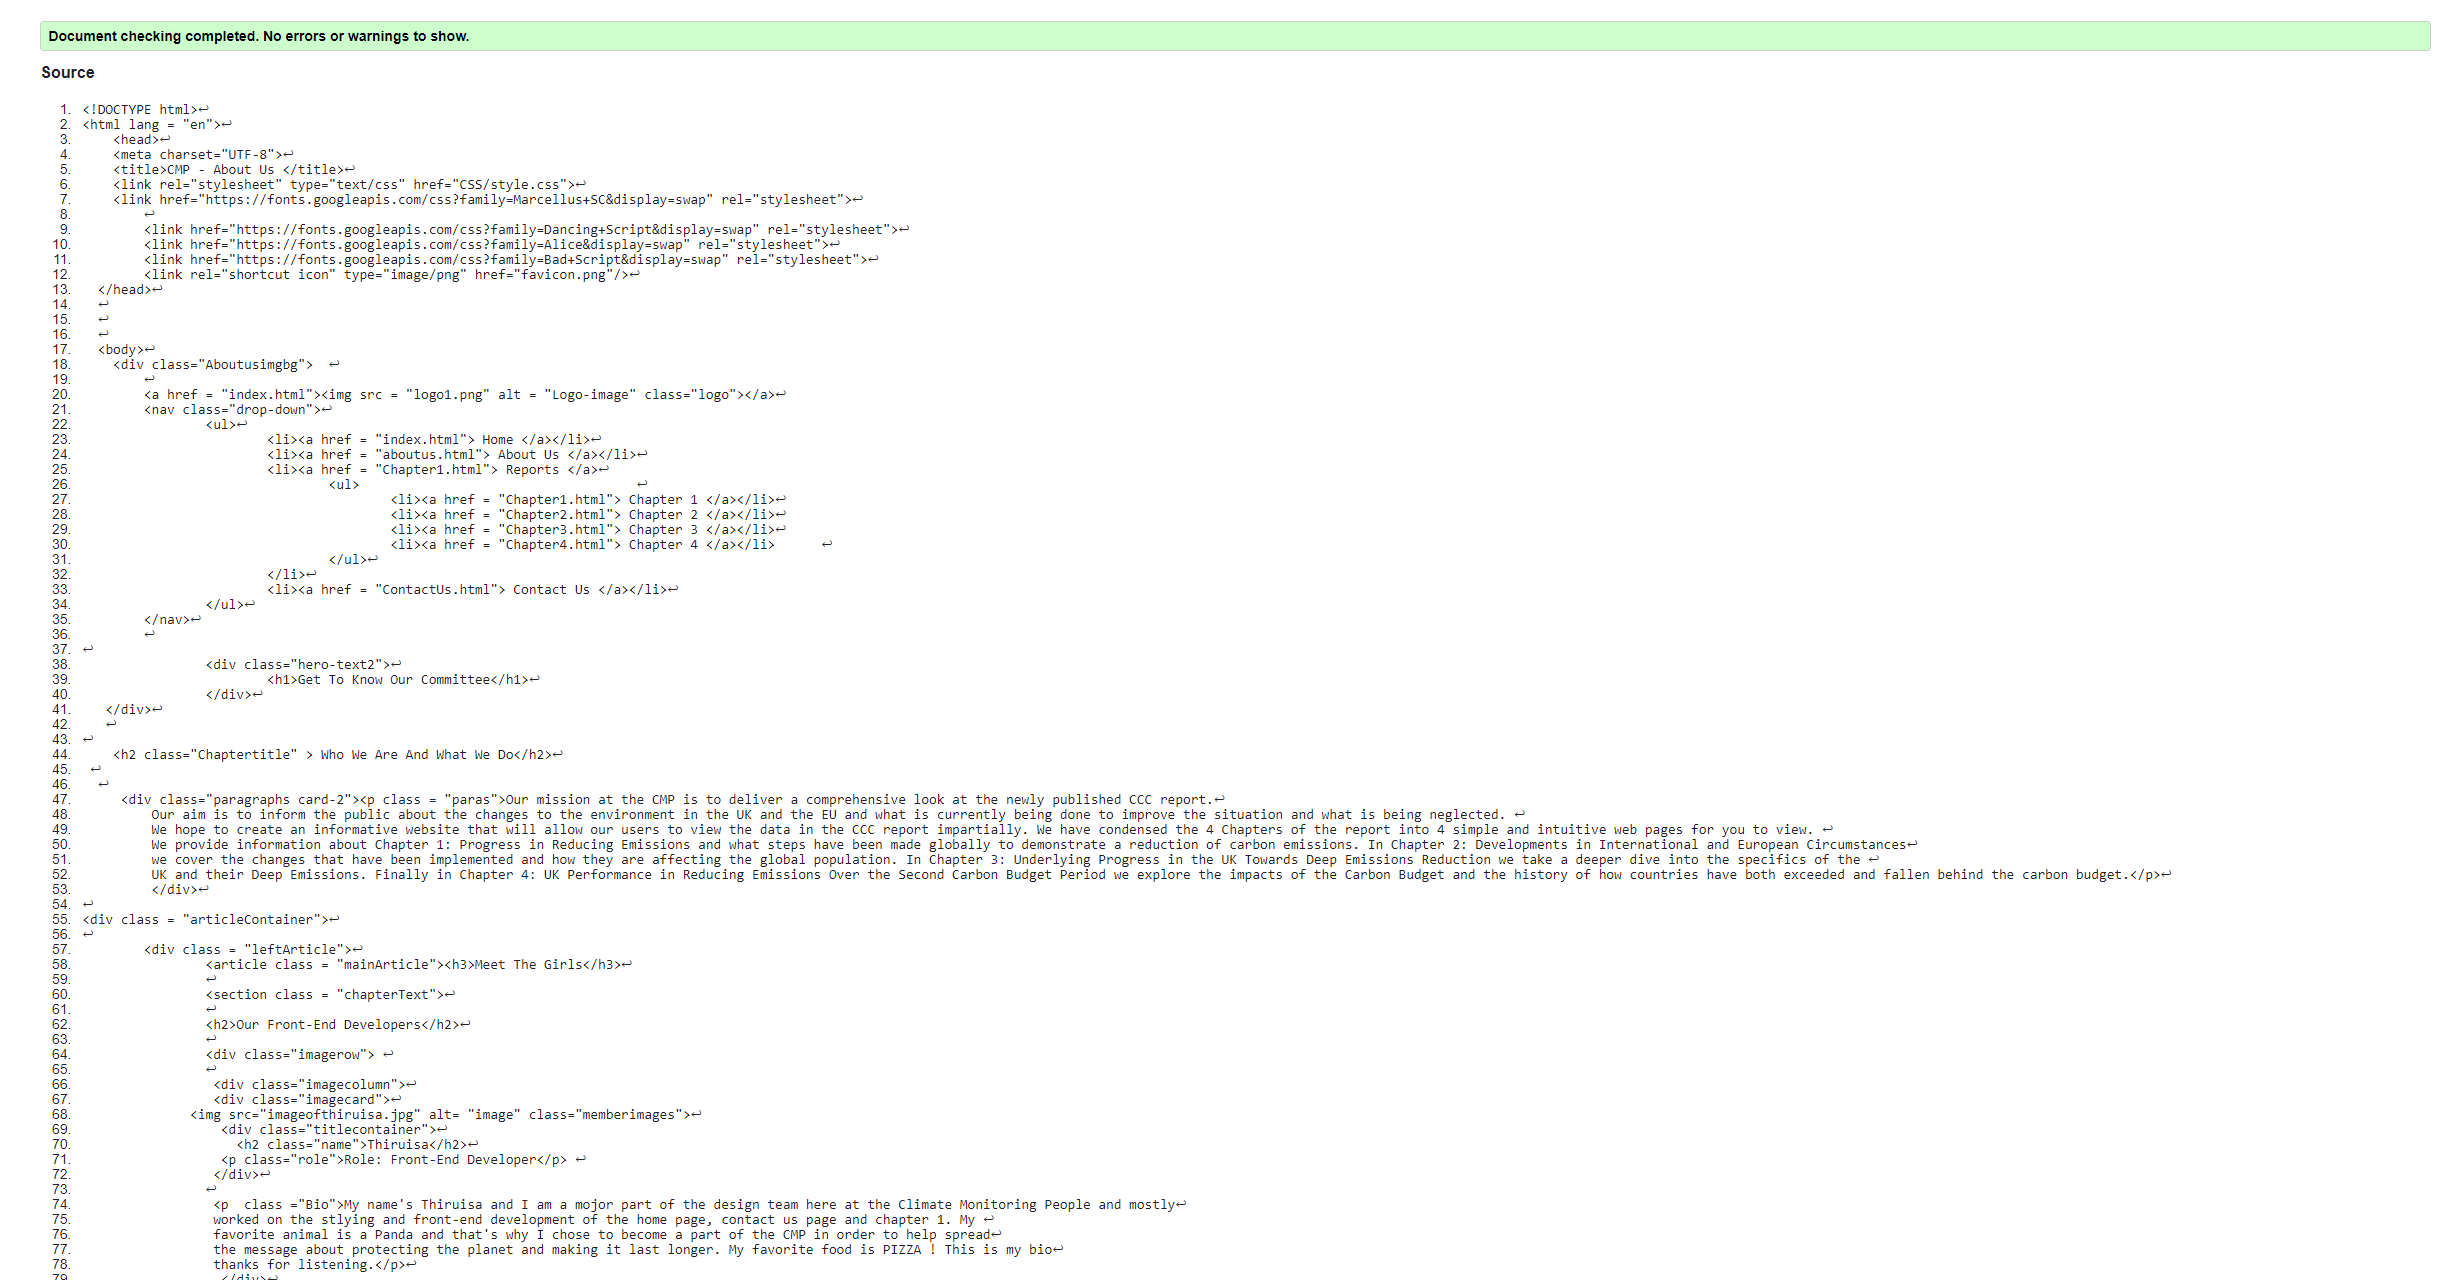
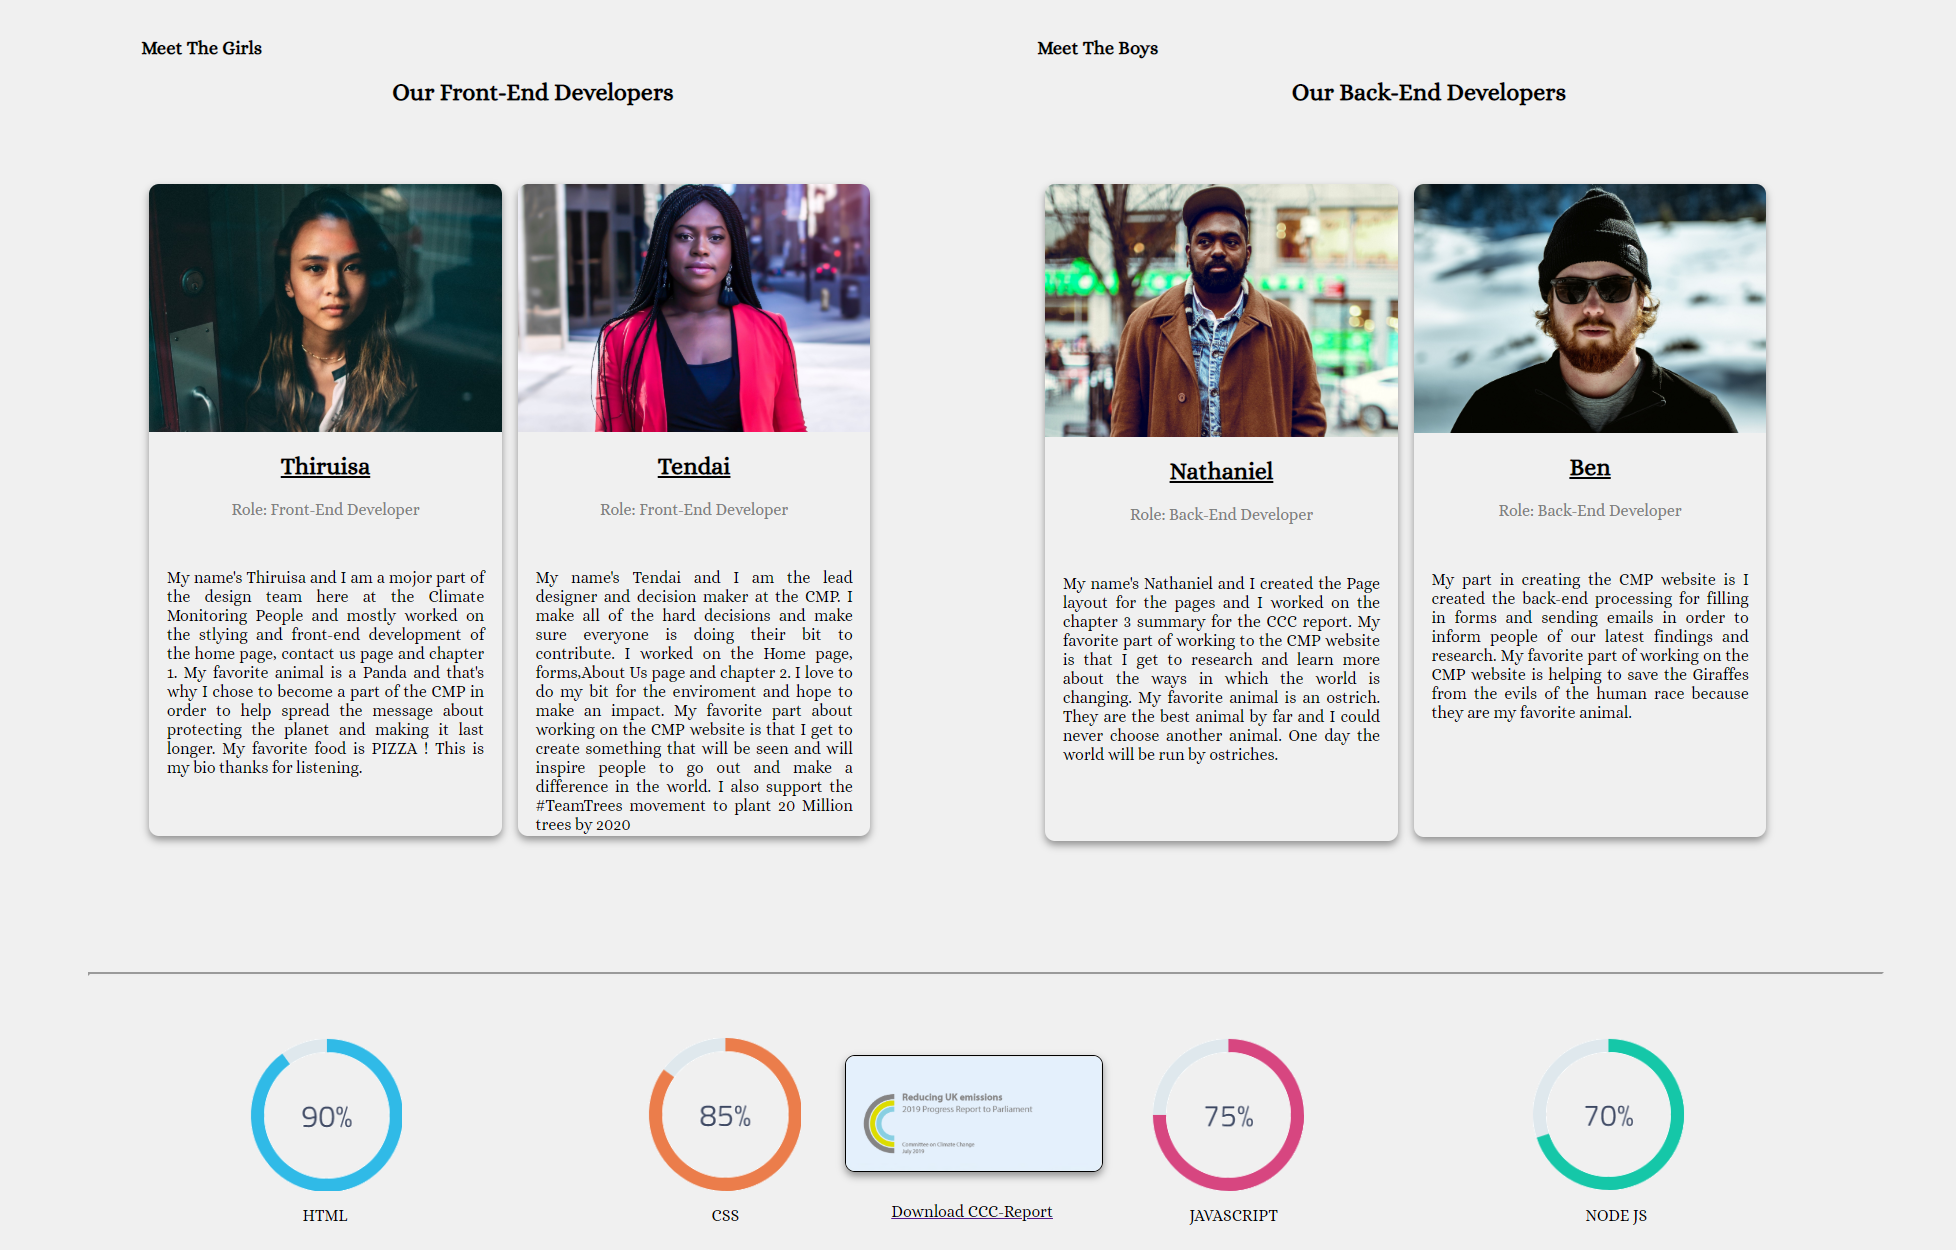
Added download button

diff --git a/chapter2.html b/chapter2.html
@@ -136,7 +136,7 @@
 		
 		<p>COP25 in Chile in December 2019, which will offer another opportunity for countries to communicate enhanced NDCs. It will have a particular focus on the effect of climate change on the oceans.
 		COP26 (at the end of 2020), which is expected to be the major focus point for efforts to raise NDC ambition. It now appears probable that the UK will host the COP26 talks, having agreed a partnership bid with Italy.
-        These are crucial talks and represent a major opportunity to increase global effort and ambition to cut emissions.The UK should use all the tools at its disposal to ensure that these talks are successful. 		</p>
+        These are crucial talks and represent a major opportunity to increase global effort and ambition to cut emissions.The UK should use all the tools at its disposal to ensure that these talks are successful. </p>
 	</section>
 	
 	</article>
@@ -149,33 +149,8 @@
 	<button class="nextbutton" onclick = "window.location.href='Chapter3.html'">Next Chapter &raquo;&raquo;&raquo;</button>
  </div>
   
-<!--      <footer class="footer">
-      <div class ="linkcontainer">
-         <div class="contact">
-          <h4>Contact us</h4>
-		  	<img src="underline.png" alt="underline" class="footerunderline">
-          <p><a href = "tel:0200375628" class="contactlinks">0200375628</a></p> 
-          <p><a href = "mailto:info@TheLonchInn.org.uk" class="contactlinks">info@TheLonchInn.org.uk</a></p>
-       </div> 
-	   
-        <div class="quicklinks"> 
-         <h4>Quick Links</h4>
-		  <img src="underline.png" alt="underline" class="footerunderlinetwo">
-          <p><a href="facilities.html" class="contactlinks">Facilities</a></p>
-          <p><a href="booking.html" class="contactlinks">Corporate Booking</a></p>
-       </div>
-	   
-        <div class="stayconnected"> 
-        <h4>Stay Connected</h4>
-			<img src="underline.png" alt="underline" class="footerunderlinethree">
-         <a href=" https://www.facebook.com/thelochinn"><img src="facebook.png" class="icon" alt="Facebook logo"></a>
-         <a href=" https://www.instagram.com/thelockinn/"><img src="instagram.png" class="icon" alt="Instagram logo"></a>
-         <a href=" https://twitter.com/lockinnwithy?lang=en"><img src="twitter.png" class="icon" alt="Twitter logo"></a>   
-        </div>
-      </div> 
-	 <p class="footerp">  © 2019 The Loch Inn. All Rights Reserved </p> <p class="footerp"> Last Updated: Oct 2019 </p>
-	 
-    </footer>  -->
+
+ 
  <footer>
 
 	<p> 

diff --git a/CSS/style.css b/CSS/style.css
@@ -13,15 +13,7 @@ body {
 	background-color:#F0F0F0;
 }
 
-/* * {
-  box-sizing: border-box;
-  font-family: 'Lato', sans-serif;
-} */
 
-/* body{
-	margin: 0;
-	padding: 0;
-} */
 
 
 .articleContainer{
@@ -468,10 +460,6 @@ h1{
 
 
 
-
-
-
-
 .paras {
          text-align: justify;
 		  color: #000000;
@@ -564,7 +552,7 @@ fieldset{
   background-color: #ded3d3;
 }
 
-.contactusbutton{
+/* .contactusbutton{
 	width:50%;
 	height:auto;
 	border-radius:35px;
@@ -578,7 +566,7 @@ fieldset{
 
 
 }
-
+ */
 
 
 .Chaptertitle {
@@ -769,6 +757,8 @@ font-size:30px;
 	margin: 0;
 }
 
+
+
 /* ABOUT US PAGE  */
 .imagerow{
   position: relative;
@@ -792,8 +782,6 @@ font-size:30px;
 .imagecard {
   box-shadow: 0 4px 8px 0 rgba(0, 0, 0, 0.4);
   border-radius:10px;
-
-   
 }
 
 .titlecontainer {
@@ -850,8 +838,8 @@ font-size:30px;
 	position:relative;
 	text-align:center;
 	position:relative;
-	left:40%;
-	top:-50px;
+	left:39%;
+	margin-top:5%;
 }
 
 .contactusbutton:hover{
@@ -949,6 +937,48 @@ font-size:30px;
 	text-align:center;
 
 }
+
+.cccreport{
+    width:10%;
+	height:auto;
+	position:relative;
+    left:44.5%;
+    margin-top:-13%;
+    display: block;
+	border-radius:15px;
+	border-bottom-right-radius:0;
+	border-bottom-left-radius:0;
+
+    
+}
+.imagecard2 {
+  box-shadow: 0 4px 8px 0 rgba(0, 0, 0, 0.4);
+  border-radius:10px;
+  border:solid black 1px;
+}
+.reporttitle {
+	font-family: 'Alice', cursive;
+	position:relative;
+    left:46.3%;
+	margin-top:1.2%;
+	padding:0;
+	display:flex;
+	text-align:center;
+    color:#000000;
+
+}
+
+
+
+
+
+
+
+
+
+
+
+
 
 
 

diff --git a/aboutus.html b/aboutus.html
@@ -169,8 +169,13 @@
 	  <img src="skillnodejs.PNG" alt= "image" class="skills4">
 	    <p class="skillstitle4"> NODE JS</p>
      </div>
-	
-	
+      
+     <a href="https://www.theccc.org.uk/wp-content/uploads/2019/07/CCC-2019-Progress-in-reducing-UK-emissions.pdf" download="cccReport">
+      <img src="cccreportimg.PNG" alt="CCC Report Link" class="cccreport imagecard2">
+      <p class="reporttitle"> Download CCC-Report</p>
+    </a>
+
+
 
      <button class="contactusbutton" onclick = "window.location.href='ContactUs.html'">CONTACT US</button>
      <a id="topbutton"></a>
